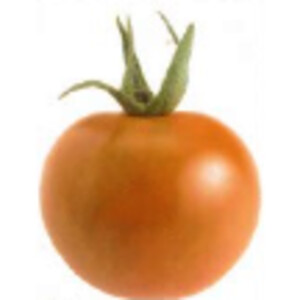
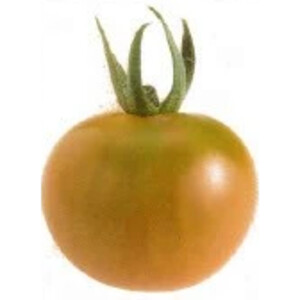
Color chart: mini tomato uses chart 1-7 (7 levels, same numbers as the chart)
Claude-Session: https://claude.ai/code/session_01Gq72E3rY5M7cj91zyTyray

diff --git a/color-chart.html b/color-chart.html
@@ -23,7 +23,7 @@ h1{font-size:22px;font-weight:900}
 .tab b{display:block;font-size:18px}
 .tab small{font-size:12px}
 .tab.active{border-color:var(--accent);background:var(--accent);color:#fff}
-/* 段階の数（大玉5・ミニ6）は --n で切り替え */
+/* 段階の数（大玉5・ミニ7）は --n で切り替え */
 .scale{display:grid;grid-template-columns:repeat(var(--n,5),1fr);gap:10px}
 .lv{position:relative;background:var(--card);border:3px solid var(--line);border-radius:16px;padding:10px 6px;text-align:center;cursor:pointer;user-select:none;-webkit-user-select:none;transition:opacity .2s,filter .2s,border-color .2s,transform .1s}
 .lv:active{transform:scale(.97)}
@@ -63,16 +63,16 @@ textarea{width:100%;margin-top:12px;font:inherit;font-size:16px;line-height:1.7;
   .lv .num{font-size:52px;width:48px}
   .pic{width:104px;margin:0}
   .scale{gap:6px}
-  /* 6段階のときも1画面に収まるよう小さめに */
-  .scale.six .pic{width:84px}
+  /* 6段階以上のときも1画面に収まるよう小さめに */
+  .scale.many .pic{width:70px}
   /* 写真2枚（お尻側・ヘタ側）を横に並べる */
   .lv.duo{justify-content:flex-start;gap:10px;padding-left:14px}
   .lv.duo .num{width:44px}
   .lv.duo .pic{width:96px}
   .lv.duo .pic2.has{margin-top:0}
   .lv.duo .ok{right:12px}
-  .scale.six .lv{padding:3px 12px}
-  .scale.six .lv .num{font-size:46px}
+  .scale.many .lv{padding:2px 12px}
+  .scale.many .lv .num{font-size:42px}
   .date{font-size:22px;padding:6px}
   header{margin-bottom:8px}
 }
@@ -135,9 +135,9 @@ textarea{width:100%;margin-top:12px;font:inherit;font-size:16px;line-height:1.7;
 const DATA = {
   large:{green:'#a9c46c',levels:[
     {p:.16,tip:'#f2b49b'},{p:.35,tip:'#ee927c'},{p:.55,tip:'#e8675e'},{p:.82,tip:'#e04c4e'},{p:1,tip:'#d63b41'}]},
-  // ミニは静岡県野菜振興協会トマト部会カラーチャートの❷〜❼に合わせて6段階（写真が無いときのイラスト用）
+  // ミニは静岡県野菜振興協会トマト部会カラーチャートの①〜⑦に合わせて7段階（写真が無いときのイラスト用）
   mini:{green:'#93bf4c',levels:[
-    {p:.35,tip:'#c9a24e'},{p:.55,tip:'#e08a48'},{p:.75,tip:'#ea7040'},{p:.92,tip:'#ea5a3a'},{p:1,tip:'#dc3a2c'},{p:1,tip:'#c8183a'}]},
+    {p:.2,tip:'#b9a24a'},{p:.35,tip:'#c9a24e'},{p:.55,tip:'#e08a48'},{p:.75,tip:'#ea7040'},{p:.92,tip:'#ea5a3a'},{p:1,tip:'#dc3a2c'},{p:1,tip:'#c8183a'}]},
 };
 
 function mix(a,b,t){
@@ -167,9 +167,9 @@ function tomatoSVG(v,lv){
     <g fill="#3f7d2a"><path d="M60 ${topY} l-16 -4 l12 6 l-10 10 l14 -8 l14 8 l-10 -10 l12 -6 l-16 4 z"/>
     <rect x="57.5" y="${topY-14}" width="5" height="12" rx="2"/></g></svg>`;
 }
-// 写真ファイル：photos/large-1.jpg 〜 large-5.jpg、photos/mini-1.jpg 〜 mini-6.jpg
+// 写真ファイル：photos/large-1.jpg 〜 large-5.jpg、photos/mini-1.jpg 〜 mini-7.jpg
 // 読み込めた番号だけ写真に切り替わる（無い番号はイラストのまま）
-const PHOTO_VER='3'; // 写真を差し替えたら数字を上げると、古い写真が残らない
+const PHOTO_VER='4'; // 写真を差し替えたら数字を上げると、古い写真が残らない
 // 2枚目：photos/large-1-b.jpg のように「-b」を付けたもの（ヘタ側の写真）。あれば横に並べる
 const photo=(v,n,sfx='')=>`<img src="photos/${v}-${n}${sfx}.jpg?v=${PHOTO_VER}" alt="" draggable="false" onload="this.parentNode.classList.add('has');${sfx?"this.closest('.lv').classList.add('duo')":''}">`;
 const cards=(v,tap)=>DATA[v].levels.map((l,i)=>`<div class="lv" data-n="${i+1}"${tap?' role="button" tabindex="0"':''}><div class="num">${i+1}</div><div class="pic">${photo(v,i+1)}${tomatoSVG(v,l)}</div><div class="pic pic2">${photo(v,i+1,'-b')}</div><span class="ok">👍</span></div>`).join('');
@@ -180,7 +180,7 @@ const picked={large:new Set(),mini:new Set()};
 function setCount(el,v){
   const n=DATA[v].levels.length;
   el.style.setProperty('--n',n);
-  el.classList.toggle('six',n===6);
+  el.classList.toggle('many',n>=6);
 }
 let current='large';
 function setVariety(v){

diff --git a/sw.js b/sw.js
@@ -1,4 +1,4 @@
-const CACHE_NAME = 'tomato-sizer-v9';
+const CACHE_NAME = 'tomato-sizer-v10';
 const ASSETS = [
   './',
   './index.html',

diff --git a/photos/README.md b/photos/README.md
@@ -5,15 +5,15 @@
 
 ## ファイル名（この名前で入れてください）
 
-| | 1 | 2 | 3 | 4 | 5 | 6 |
-|---|---|---|---|---|---|---|
-| 大玉トマト（5段階） | large-1.jpg | large-2.jpg | large-3.jpg | large-4.jpg | large-5.jpg | － |
-| ミニトマト（6段階） | mini-1.jpg | mini-2.jpg | mini-3.jpg | mini-4.jpg | mini-5.jpg | mini-6.jpg |
+| | 1 | 2 | 3 | 4 | 5 | 6 | 7 |
+|---|---|---|---|---|---|---|---|
+| 大玉トマト（5段階） | large-1.jpg | large-2.jpg | large-3.jpg | large-4.jpg | large-5.jpg | － | － |
+| ミニトマト（7段階） | mini-1.jpg | mini-2.jpg | mini-3.jpg | mini-4.jpg | mini-5.jpg | mini-6.jpg | mini-7.jpg |
 
 大玉トマトは写真を2枚ずつ使います：`large-1.jpg`（お尻側）と `large-1-b.jpg`（ヘタ側）。`-b` の写真があると横に並べて表示します。
 大玉トマトの写真は、サカタのタネ「麗夏トマト 熟度標準表」の1〜5を使っています。
 
-ミニトマトの写真は、静岡県野菜振興協会トマト部会「ミニトマト カラーチャート表」の❷〜❼を使っています（色目1＝❷ … 色目6＝❼）。
+ミニトマトの写真は、静岡県野菜振興協会トマト部会「ミニトマト カラーチャート表」の①〜⑦を使っています（番号はチャートと同じ）。
 
 - 拡張子は小文字の `.jpg`（`.JPG` や `.png` は表示されません）
 - 正方形に自動で切り抜かれます。トマトを写真の真ん中に
